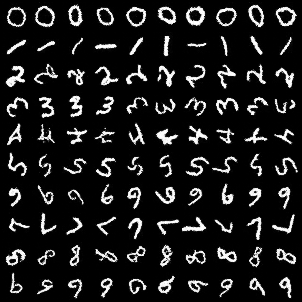
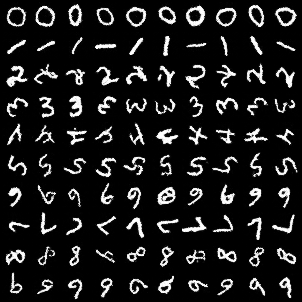
updated hyper params

diff --git a/gf/train.py b/gf/train.py
@@ -15,25 +15,25 @@ from gf.mnist import setup_dataloaders
 from gf.model import models
 
 parser = argparse.ArgumentParser()
-parser.add_argument("--model", type=str, default="JiT-B/7", choices=models.keys())
+parser.add_argument("--model", type=str, default="JiT-S/7", choices=models.keys())
 parser.add_argument("--bs", "--batch-size", type=int, default=256)
 parser.add_argument("--epochs", type=int, default=100)
 
 # optimizer
 parser.add_argument("--lr", "--learning-rate", type=float, default=3e-4)
 parser.add_argument("--wd", "--weight-decay", type=float, default=0.0)
-parser.add_argument("--betas", type=float, nargs=2, default=(0.9, 0.999))
+parser.add_argument("--betas", type=float, nargs=2, default=(0.9, 0.95))
 parser.add_argument("--eps", type=float, default=1e-10)
 
-parser.add_argument("--muon-lr", type=float, default=0.02)
-parser.add_argument("--muon-wd", type=float, default=0.2)
-parser.add_argument("--muon-beta2", type=float, default=0.95)
+parser.add_argument("--muon-lr", type=float, default=0.01)
+parser.add_argument("--muon-wd", type=float, default=0.1)
+parser.add_argument("--muon-beta2", type=float, default=0.9)
 parser.add_argument("--muon-momentum", type=float, default=0.95)
 
-parser.add_argument("--warmup", type=float, default=0.1, help="lr warmup")
+parser.add_argument("--warmup", type=float, default=0.05, help="lr warmup")
 parser.add_argument("--adamw", action="store_true", help="only AdamW")
 parser.add_argument("--cosine", action="store_true", help="lr anneal")
-parser.add_argument("--grad-norm", type=float, default=float("inf"))
+parser.add_argument("--grad-norm", type=float, default=1.0)
 
 # experiment
 parser.add_argument("--experiment", type=str, default="default")
@@ -49,31 +49,21 @@ def setup_optimizer(model, args):
 
     from gf.optim import MuonAdamW
 
-    gate_weights = []
-    ff_weights = []
+    muon_params = []
     adamw_params = []
 
     for name, param in model.named_parameters():
         if not param.requires_grad:
             continue
-        if ".blocks." in name and name.endswith(".weight") and param.ndim == 2:
-            if ".gates." in name:
-                gate_weights.append(param)
-            elif ".ff." in name:
-                ff_weights.append(param)
-            else:
-                adamw_params.append(param)
+        if (
+            ".blocks." in name
+            and name.endswith(".weight")
+            and param.ndim == 2
+            and ".adaLN_modulation." not in name
+        ):
+            muon_params.append(param)
         else:
             adamw_params.append(param)
-
-    muon_defaults = {
-        "kind": "muon",
-        "lr": args.muon_lr,
-        "momentum": args.muon_momentum,
-        "ns_steps": 5,
-        "beta2": args.muon_beta2,
-        "weight_decay": args.muon_wd,
-    }
 
     param_groups = [
         {
@@ -85,13 +75,24 @@ def setup_optimizer(model, args):
             "weight_decay": args.wd,
         },
     ]
-    if gate_weights:
-        param_groups.append({"params": gate_weights, **muon_defaults})
-    if ff_weights:
-        param_groups.append({"params": ff_weights, **muon_defaults})
+
+    # Group muon params by shape for efficient stacking
+    for shape in sorted({p.shape for p in muon_params}):
+        group_params = [p for p in muon_params if p.shape == shape]
+        param_groups.append(
+            {
+                "params": group_params,
+                "kind": "muon",
+                "lr": args.muon_lr,
+                "momentum": args.muon_momentum,
+                "ns_steps": 5,
+                "beta2": args.muon_beta2,
+                "weight_decay": args.muon_wd,
+            }
+        )
 
     # Print parameter group summary
-    muon_ids = {id(p) for p in gate_weights + ff_weights}
+    muon_ids = {id(p) for p in muon_params}
     for name, param in model.named_parameters():
         if not param.requires_grad:
             continue
@@ -122,7 +123,7 @@ def train(args):
 
     total_steps = len(train_loader) * args.epochs
     warmup_steps = int(total_steps * args.warmup)
-    scheduler = LinearLR(optimizer, start_factor=0.01, total_iters=warmup_steps)
+    scheduler = LinearLR(optimizer, start_factor=1e-6, total_iters=warmup_steps)
     if args.cosine:
         cosine = CosineAnnealingLR(
             optimizer, T_max=total_steps - warmup_steps, eta_min=1e-6

diff --git a/gf/model.py b/gf/model.py
@@ -341,7 +341,7 @@ class FinalLayer(nn.Module):
             nn.SiLU(), nn.Linear(hidden_size, 2 * hidden_size, bias=True)
         )
 
-    @torch.compile(dynamic=False, fullgraph=True)
+    @torch.compile(dynamic=False, fullgraph=False)
     def forward(self, x, c):
         shift, scale = self.adaLN_modulation(c).chunk(2, dim=1)
         x = modulate(self.norm_final(x), shift, scale)
@@ -370,7 +370,7 @@ class JiTBlock(nn.Module):
             nn.SiLU(), nn.Linear(hidden_size, 6 * hidden_size, bias=True)
         )
 
-    @torch.compile(dynamic=False, fullgraph=True)
+    @torch.compile(dynamic=False, fullgraph=False)
     def forward(self, x, c, feat_rope=None):
         shift_msa, scale_msa, gate_msa, shift_mlp, scale_mlp, gate_mlp = (
             self.adaLN_modulation(c).chunk(6, dim=-1)
@@ -471,7 +471,7 @@ class JiT(nn.Module):
         # Initialize transformer layers:
         def _basic_init(module):
             if isinstance(module, nn.Linear):
-                torch.nn.init.xavier_uniform_(module.weight)
+                torch.nn.init.orthogonal_(module.weight)
                 if module.bias is not None:
                     nn.init.constant_(module.bias, 0)
 
@@ -568,49 +568,35 @@ class JiT(nn.Module):
         return output
 
 
-def JiT_B_4(**kwargs):
+def JiT_S_7(**kwargs):
     return JiT(
         depth=4,
-        hidden_size=256,
-        num_heads=8,
-        bottleneck_dim=64,
-        in_context_len=15,
-        in_context_start=2,
-        patch_size=4,
-        **kwargs,
-    )
-
-
-def JiT_B_7(**kwargs):
-    return JiT(
-        depth=4,
-        hidden_size=256,
-        num_heads=8,
-        bottleneck_dim=64,
-        in_context_len=15,
+        hidden_size=192,
+        num_heads=6,
+        mlp_ratio=2.0,
+        bottleneck_dim=48,
+        in_context_len=4,
         in_context_start=2,
         patch_size=7,
         **kwargs,
     )
 
 
-def JiT_L_7(**kwargs):
+def JiT_M_7(**kwargs):
     return JiT(
-        depth=12,
-        hidden_size=768,
-        num_heads=12,
-        bottleneck_dim=128,
-        in_context_len=32,
-        in_context_start=4,
+        depth=4,
+        hidden_size=256,
+        num_heads=8,
+        mlp_ratio=2.0,
+        bottleneck_dim=48,
+        in_context_len=4,
+        in_context_start=2,
         patch_size=7,
-        attn_drop=0.2,
-        proj_drop=0.2,
         **kwargs,
     )
 
 
 models = {
-    "JiT-B/4": JiT_B_4,
-    "JiT-B/7": JiT_B_7,
-    "JiT-L/7": JiT_L_7,
+    "JiT-S/7": JiT_S_7,
+    "JiT-M/7": JiT_M_7,
 }

diff --git a/gf/optim.py b/gf/optim.py
@@ -9,6 +9,8 @@ Further contributions from @karpathy and @chrisjmccormick.
 import torch
 from torch import Tensor
 
+torch._dynamo.config.cache_size_limit = 16
+
 # -----------------------------------------------------------------------------
 """
 Good old AdamW optimizer, fused kernel.
